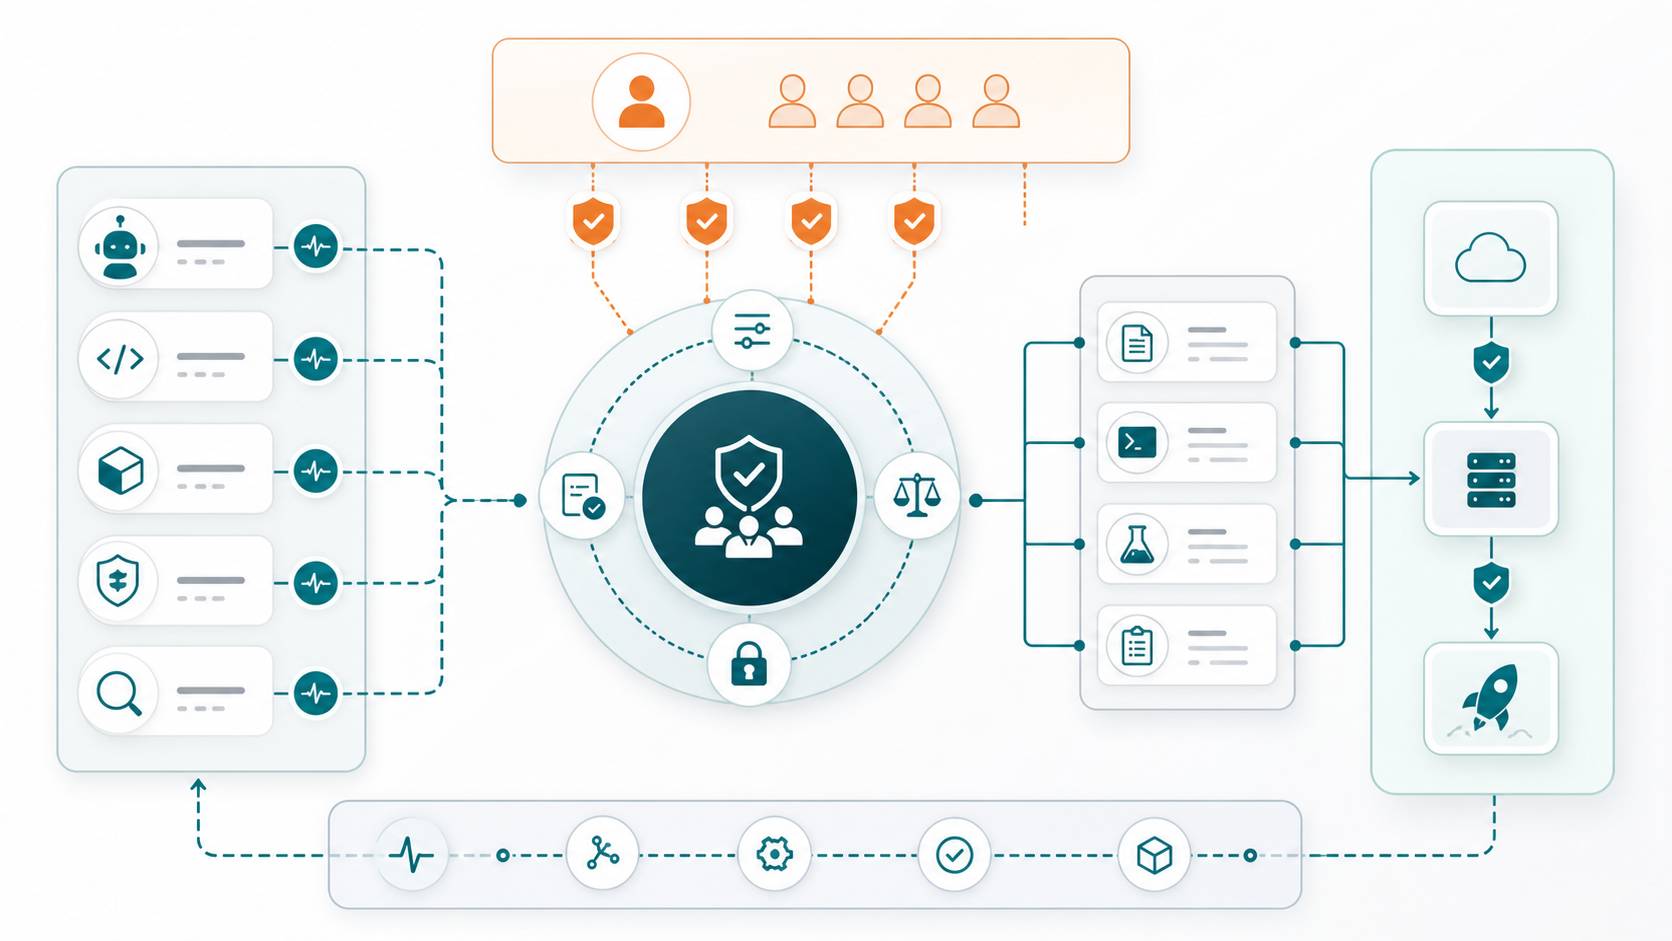
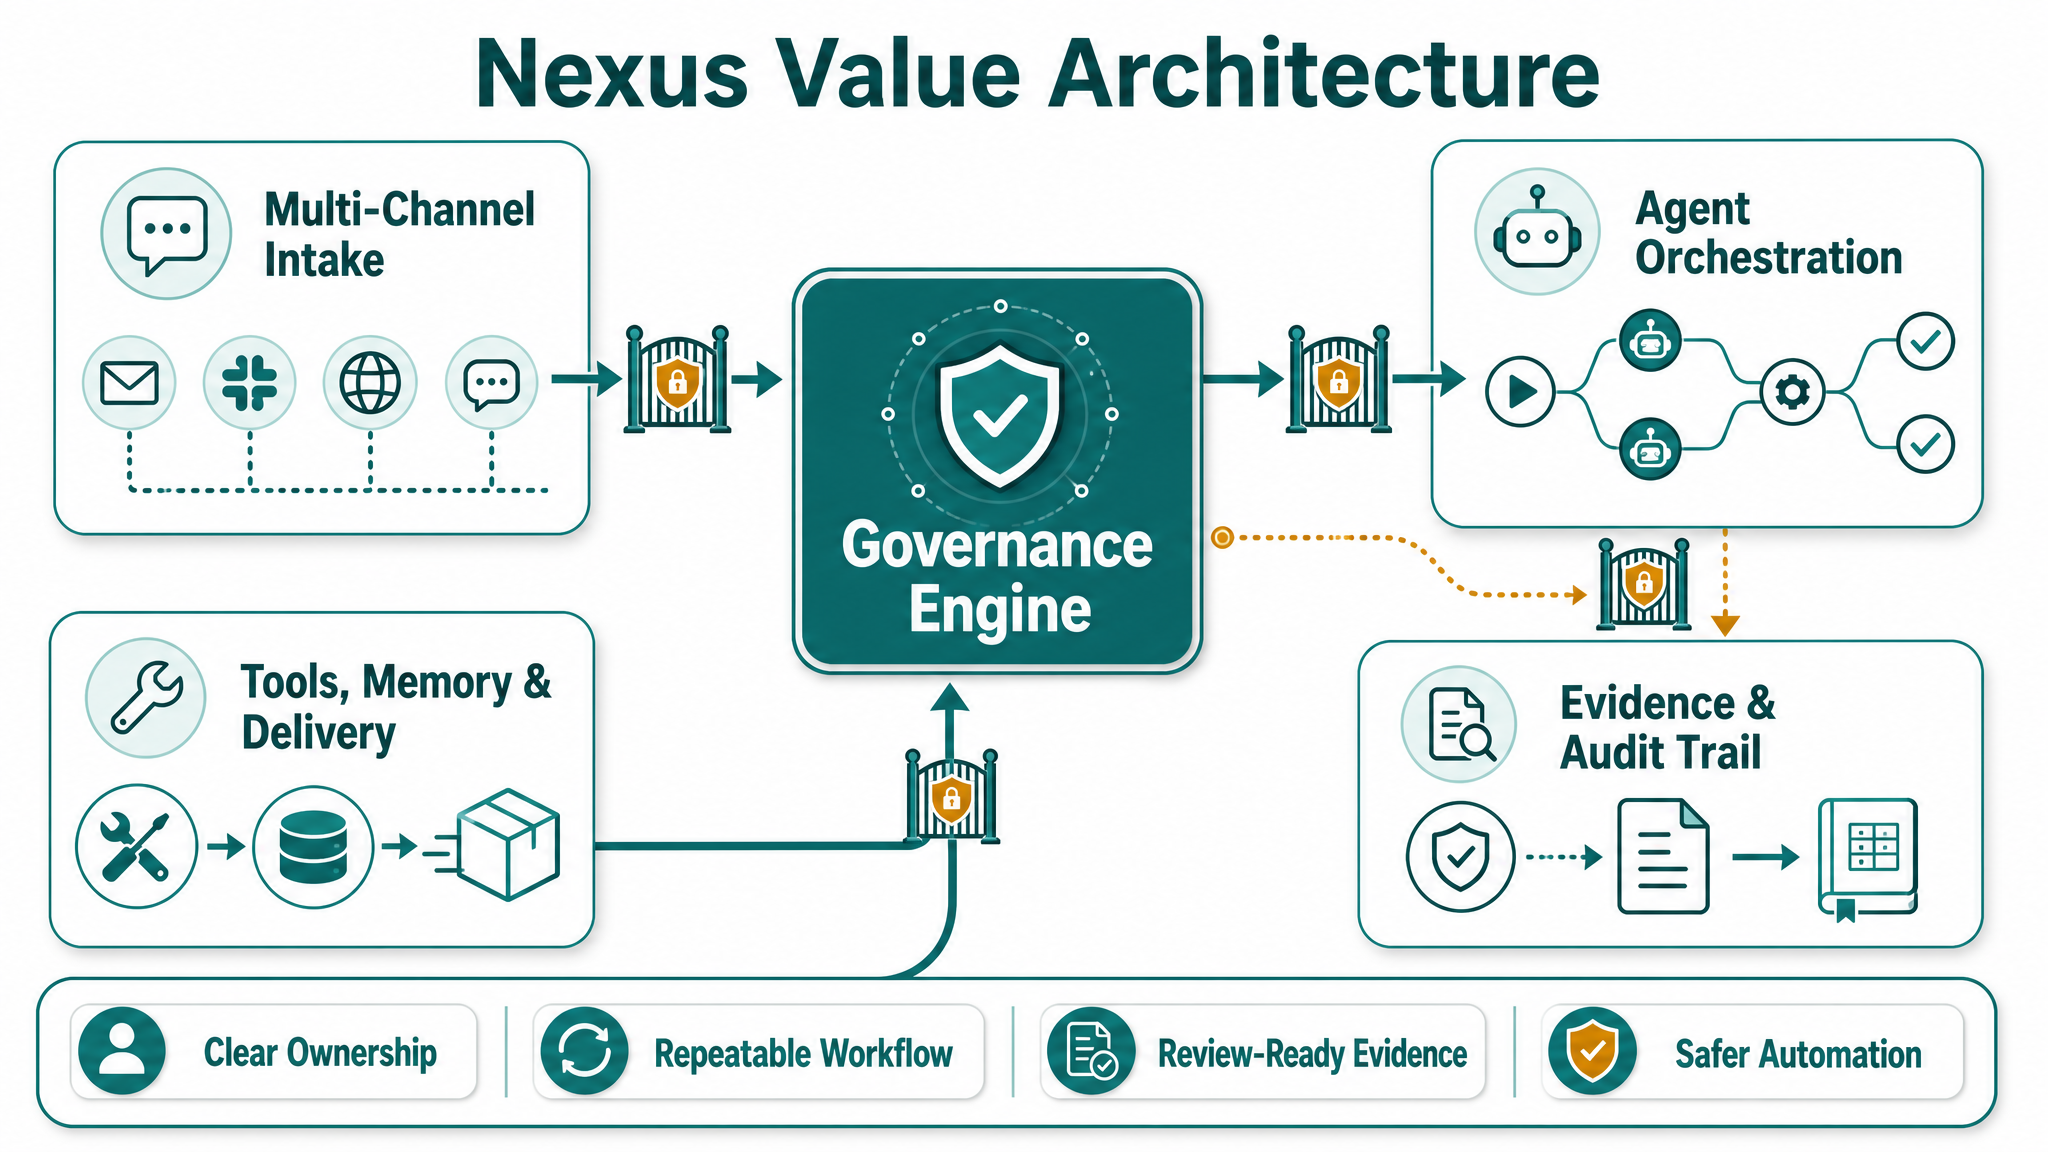
docs: use value architecture visual

Changed region(s): [[0.0311, 0.0308, 0.9952, 0.9862]]

diff --git a/README.md b/README.md
@@ -14,7 +14,7 @@ Nexus provides a Python-based foundation for governed delivery workflows:
 
 The project is under active early-stage development. It is not a claim of autonomous production readiness.
 
-![Nexus architecture overview](docs/assets/nexus-architecture.png)
+![Nexus value architecture](docs/assets/nexus-architecture.png)
 
 ## Why Governed Agentic Delivery Matters
 